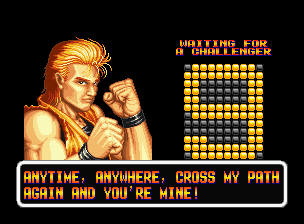
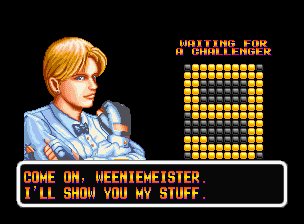
Scene Win Condition updated / Countdown implemented

Changed region(s): [[0.0592, 0.1562, 0.5033, 0.7188], [0.0592, 0.75, 0.5033, 0.9062], [0.5329, 0.75, 0.9474, 0.9062]]

diff --git a/Art_Of_Fighting/ModuleScenewin.cpp b/Art_Of_Fighting/ModuleScenewin.cpp
@@ -9,10 +9,13 @@
 #include "ModuleFadeToBlack.h"
 #include "ModuleScenewin.h"
 #include "ModuleWelcomeScreen.h"
+#include "ModuleFonts.h"
+#include <stdio.h>
 
-ModuleScenewin::ModuleScenewin() {
+ModuleScenewin::ModuleScenewin() 
+{
 	winimage = { 0, 0,304,224 };
-	winimage2= { 0, 0,304,224 };
+	winimage2 = { 0, 0,304,224 };
 }
 
 ModuleScenewin::~ModuleScenewin()
@@ -31,6 +34,12 @@ bool ModuleScenewin::Start()
 
 	// TODO 1: Enable (and properly disable) the player module
 	//App->player->Enable();
+
+	//Countdown
+	font_countdown = App->fonts->Load("media/UI/numbers2.png", "0123456789", 1);
+	timer = 9;
+	timertime = SDL_GetTicks();
+	
 	
 	return ret;
 }
@@ -61,6 +70,19 @@ update_status ModuleScenewin::Update()
 	if (App->player2->Life <= App->player->Life) {
 		App->render->Blit(graphics, 0, 0, &winimage);
 	}
+
+	//Countdown
+
+	if (SDL_GetTicks() - timertime >= 1000)
+	{
+		timertime = SDL_GetTicks();
+		timer--;
+	}
+
+	sprintf_s(timer_text, 10, "%d", timer);
+
+	App->fonts->BlitText(184, 64, font_countdown, timer_text);
+
 
 	// TODO 2: make so pressing SPACE the KEN stage is loaded
 	if (App->input->keyboard[SDL_SCANCODE_SPACE] == 1)

diff --git a/Art_Of_Fighting/ModuleScenewin.h b/Art_Of_Fighting/ModuleScenewin.h
@@ -21,6 +21,11 @@ public:
 	SDL_Texture* graphics = nullptr;
 	SDL_Rect winimage;
 	SDL_Rect winimage2;
+
+	char timer_text[10];
+	int font_countdown = -1;
+	int timertime;
+	uint timer;
 	
 };
 #endif // __MODULESCENEWIN_H__
